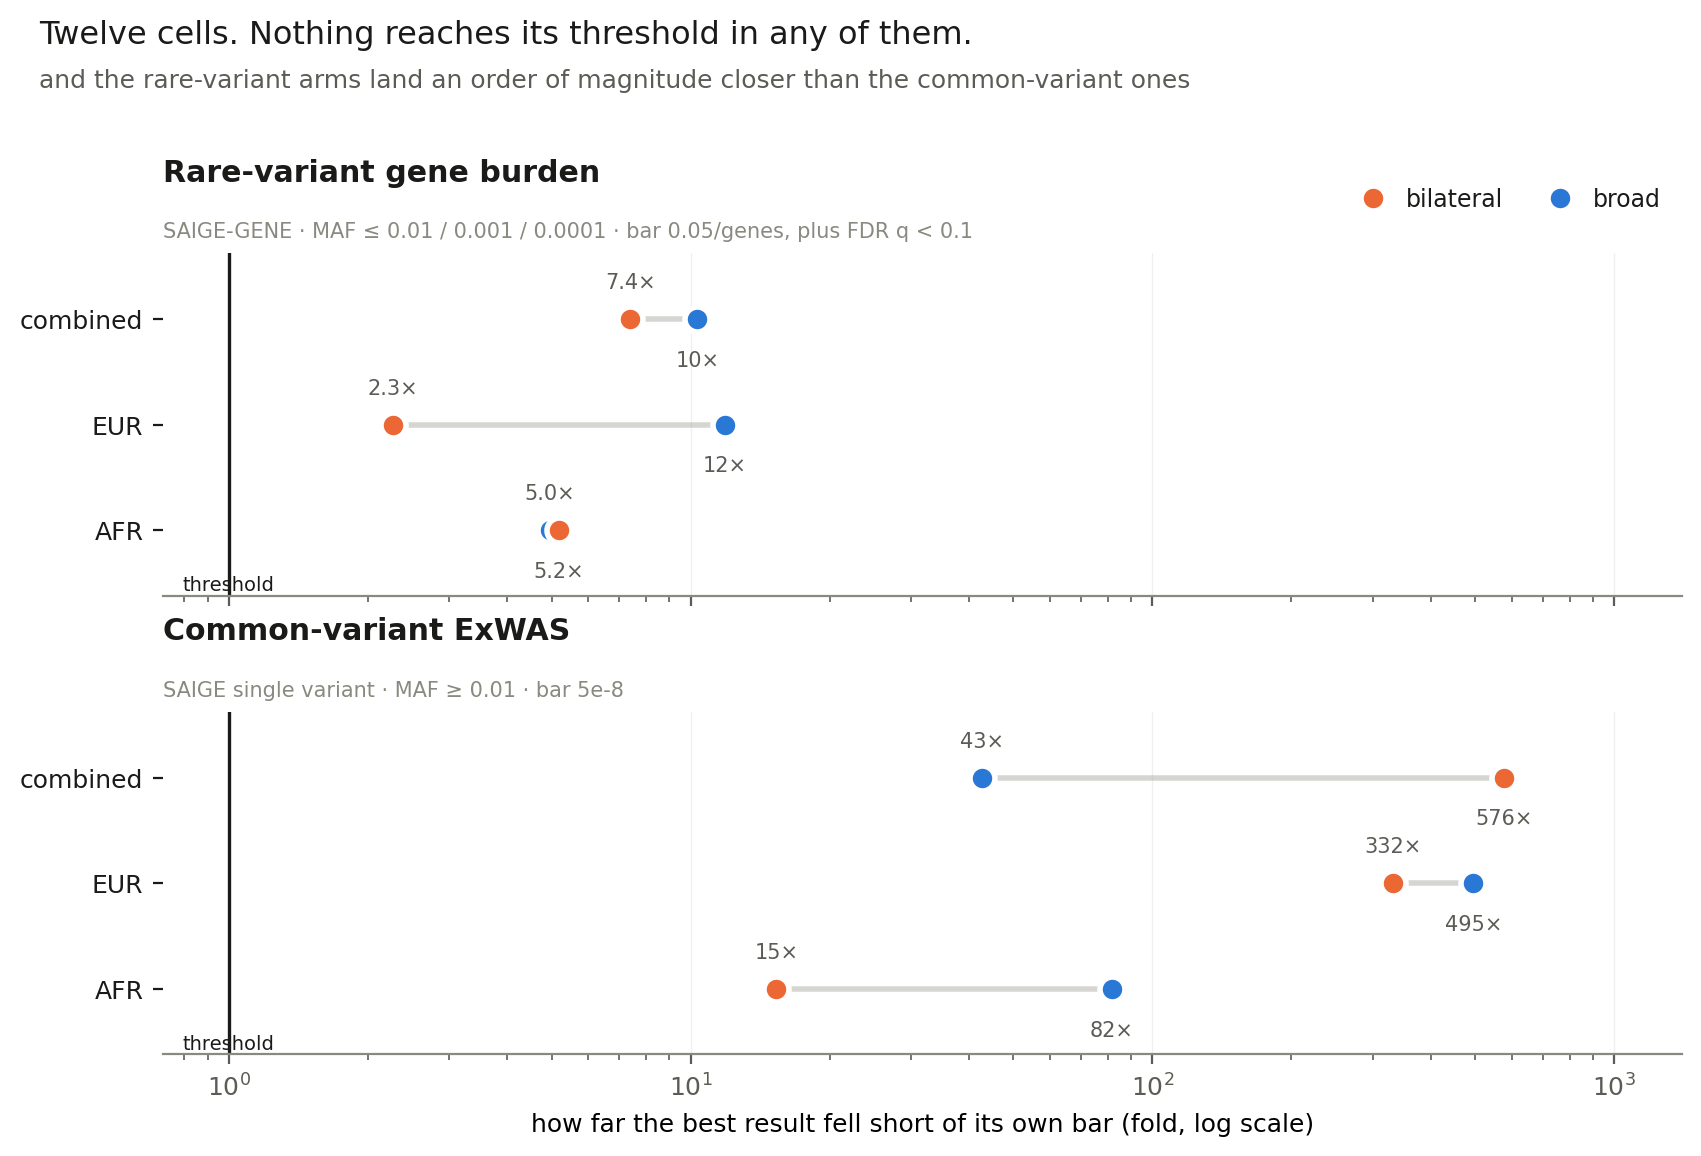
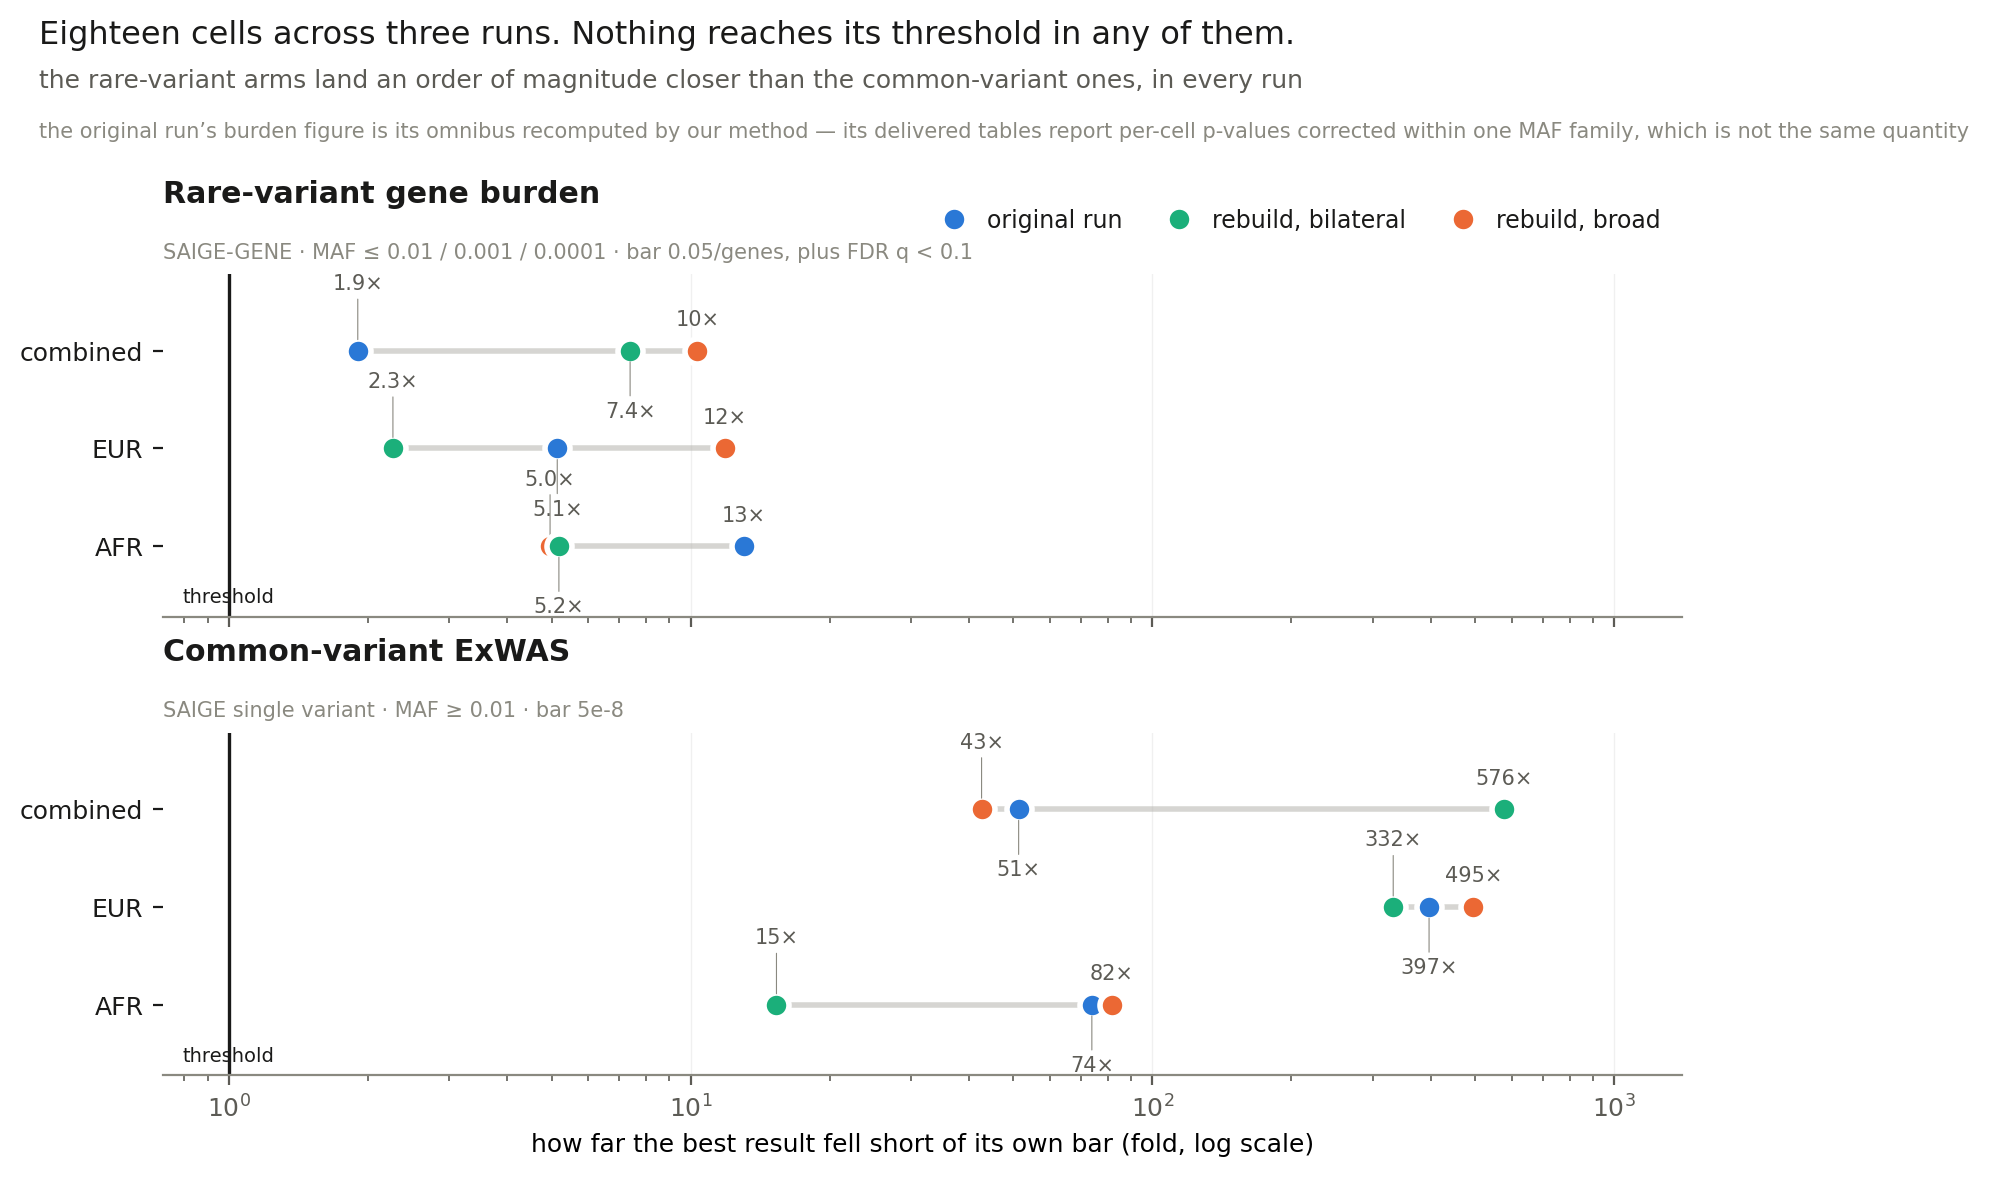
Synthesis figure: add the original run, making it eighteen cells
Three series now -- the original run, the rebuild on its phenotype, and
the rebuild on bilateral. They are not three phenotypes: the first two
share a phenotype and differ in pipeline, while bilateral is a phenotype
the original never ran, so there is no fourth series.

The original's BURDEN figure is its omnibus recomputed by our method,
not its delivered p-value. Its tables report per-cell p corrected within
one MAF family (0.05/53,583 for combined, verified from its own
Pvalue_Bonferroni column) across 160,672 cell tests. Putting that beside
our omnibus would compare minima over different test counts. Its ExWAS
figure needs no adjustment -- single-variant p against 5e-8 is the same
quantity everywhere.

Worth stating because the figure invites a ranking it does not support:
the original is the closest of the three in combined burden (1.9x) and
the furthest in AFR (13x). Its gene set is larger -- 19,042 including
651 antisense, 88 LINC and 14 microRNA genes a pLOF mask should not
contain -- which both loosens its bar and gives more chances at a small
p. The comparison shows that no run reaches its threshold, not which
pipeline is better.

Two mistakes of mine in building this. The first edit to the label
offsets silently did nothing: I used .replace() without an assert on
that block, so it failed quietly and I looked at a figure I believed
had been fixed. The second is what it was meant to fix -- with three
[…]

diff --git a/analysis/pmbb_hl/synthesis/scripts/02_figure.py b/analysis/pmbb_hl/synthesis/scripts/02_figure.py
@@ -26,14 +26,25 @@ import numpy as np
 
 HERE = Path(__file__).resolve().parents[1]
 COHORTS = ["combined", "EUR", "AFR"]
-PHENOS = ["broad", "bilateral"]
-BLUE, ORANGE = "#2a78d6", "#eb6834"
+# Three series now. They are not three phenotypes: the original run and our broad arm
+# share a phenotype and differ in pipeline, while our bilateral arm is a different
+# phenotype we introduced. The original never ran bilateral, so there is no fourth.
+SERIES = ["original run", "rebuild, broad", "rebuild, bilateral"]
+BLUE, ORANGE, AQUA = "#2a78d6", "#eb6834", "#1baf7a"
 INK, INK_2, INK_3, SURFACE = "#1a1a19", "#5c5b55", "#8a8980", "#ffffff"
-PCOL = {"broad": BLUE, "bilateral": ORANGE}
+PCOL = {"original run": BLUE, "rebuild, broad": ORANGE,
+        "rebuild, bilateral": AQUA}
 
 
 def main():
-    d = json.loads((HERE / "results/consolidated.json").read_text())["cells"]
+    raw = json.loads((HERE / "results/consolidated.json").read_text())
+    d, elena = raw["cells"], raw["elena"]
+
+    def short(series, arm, cohort):
+        if series == "original run":
+            return elena[cohort][arm]["short_by"]
+        ph = "broad" if series.endswith("broad") else "bilateral"
+        return d[f"{arm}_{ph}_{cohort}"]["short_by"]
     plt.rcParams.update({
         "figure.dpi": 110, "savefig.dpi": 200, "savefig.bbox": "tight",
         "font.size": 9, "axes.spines.top": False, "axes.spines.right": False,
@@ -53,7 +64,7 @@ def main():
 
     for ax, (title, arm, note) in zip(axes, panels):
         for ci, cohort in enumerate(COHORTS[::-1]):
-            vals = [(p, d[f"{arm}_{p}_{cohort}"]["short_by"]) for p in PHENOS]
+            vals = [(s, short(s, arm, cohort)) for s in SERIES]
             ax.plot([min(v for _, v in vals), max(v for _, v in vals)],
                     [ci, ci], color=INK_3, lw=2, alpha=0.35,
                     solid_capstyle="round", zorder=1)
@@ -61,10 +72,17 @@ def main():
                 ax.plot(v, ci, "o", ms=9, color=PCOL[p], markeredgecolor=SURFACE,
                         markeredgewidth=2, zorder=3,
                         label=p if (ci == 2 and arm == "burden") else None)
+                # THREE distinct heights, not two alternating. With three series the
+                # first and third labels shared an offset, and wherever two runs agree
+                # closely -- 397x against 495x, 74x against 82x -- they overlapped
+                # into an unreadable smear.
+                dy = (22, -24, 9)[j]
                 ax.annotate(f"{v:.0f}×" if v >= 10 else f"{v:.1f}×",
-                            (v, ci), textcoords="offset points",
-                            xytext=(0, 11 if j == 0 else -17),
-                            ha="center", fontsize=7.5, color=INK_2)
+                            (v, ci), textcoords="offset points", xytext=(0, dy),
+                            ha="center", fontsize=7.5, color=INK_2,
+                            arrowprops=dict(arrowstyle="-", lw=0.4, color=INK_3,
+                                            shrinkA=0, shrinkB=4)
+                            if abs(dy) > 15 else None)
         ax.axvline(1.0, color=INK, lw=1.2, zorder=2)
         ax.annotate("threshold", xy=(1.0, -0.52), ha="center", va="center",
                     fontsize=7, color=INK)
@@ -72,7 +90,7 @@ def main():
         ax.set_yticklabels(COHORTS[::-1])
         ax.set_xscale("log")
         ax.set_xlim(0.72, 1400)
-        ax.set_ylim(-0.62, 2.62)
+        ax.set_ylim(-0.72, 2.78)
         ax.grid(axis="x", alpha=0.18, lw=0.5)
         ax.set_title(title, loc="left", fontweight="bold", pad=26)
         ax.text(0, 1.035, note, transform=ax.transAxes, fontsize=7.5,
@@ -80,12 +98,17 @@ def main():
 
     axes[-1].set_xlabel("how far the best result fell short of its own bar "
                         "(fold, log scale)")
-    axes[0].legend(loc="lower right", bbox_to_anchor=(1.0, 1.06), ncol=2,
+    axes[0].legend(loc="lower right", bbox_to_anchor=(1.0, 1.06), ncol=3,
                    fontsize=8.5, handletextpad=0.4, columnspacing=1.4)
-    fig.suptitle("Twelve cells. Nothing reaches its threshold in any of them.",
-                 fontsize=11.5, x=0.062, ha="left", y=1.105)
-    fig.text(0.062, 1.040, "and the rare-variant arms land an order of magnitude "
-             "closer than the common-variant ones", fontsize=9, color=INK_2, ha="left")
+    fig.suptitle("Eighteen cells across three runs. Nothing reaches its threshold "
+                 "in any of them.", fontsize=11.5, x=0.062, ha="left", y=1.125)
+    fig.text(0.062, 1.060, "the rare-variant arms land an order of magnitude closer "
+             "than the common-variant ones, in every run",
+             fontsize=9, color=INK_2, ha="left")
+    fig.text(0.062, 1.012, "the original run\u2019s burden figure is its omnibus "
+             "recomputed by our method \u2014 its delivered tables report per-cell "
+             "p-values corrected within one MAF family, which is not the same quantity",
+             fontsize=7.5, color=INK_3, ha="left")
 
     out = HERE / "figures/how_close.png"
     out.parent.mkdir(parents=True, exist_ok=True)

diff --git a/analysis/pmbb_hl/synthesis/scripts/01_collect.py b/analysis/pmbb_hl/synthesis/scripts/01_collect.py
@@ -81,6 +81,43 @@ def main():
                 print(f"  {key:<26}{units:>9,}{minp:>11.2e}{bar:>11.2e}"
                       f"{minp/bar:>9.1f}x{hits:>6}")
 
+    # --- the original run, for comparison. Broad phenotype only: it never ran
+    # bilateral, so that column is new work rather than replication.
+    #
+    # Her burden omnibus is NOT her delivered p-value. Her tables report per-CELL
+    # p-values corrected within one MAF family (0.05/53,583 for combined, verified
+    # from her Pvalue_Bonferroni column) across the 160,672 cell tests she ran. Placing
+    # that beside our omnibus would compare a minimum over nine times more tests. So
+    # the figure uses her omnibus recomputed with the same ACAT over the same nine
+    # cells, from the first pass's three-way comparison, where all three are one
+    # quantity judged by one rule.
+    three_way = json.loads((ROOT.parent / "gene_burden_pmbb_bilateral/phase_5/results"
+                            / "09_three_way.json").read_text())
+    import csv
+    out["elena"] = {}
+    for c in COHORTS:
+        k = three_way["cohorts"][c]["arms"]["Elena"]
+        ps = []
+        f = (ROOT.parent / "elena/HL_only_ExWAS"
+             / f"HL_ExWAS_FullyAnnotated_AllVariants_{c}.csv")
+        with f.open() as fh:
+            for row in csv.DictReader(fh):
+                try:
+                    v = float(row["p.value"])
+                except (TypeError, ValueError):
+                    continue
+                if 0 < v <= 1:
+                    ps.append(v)
+        out["elena"][c] = {
+            "burden": {"units": k["genes"], "min_p": k["min_omnibus_p"],
+                       "bar": k["bar"], "short_by": k["min_omnibus_p"] / k["bar"]},
+            "exwas": {"units": len(ps), "min_p": min(ps), "bar": 5e-8,
+                      "short_by": min(ps) / 5e-8},
+        }
+        e = out["elena"][c]
+        print(f"  elena_{c:<20}burden {e['burden']['short_by']:>6.1f}x   "
+              f"exwas {e['exwas']['short_by']:>7.0f}x")
+
     out["matched_enrichment"] = matched["arms"]
     (OUT / "consolidated.json").write_text(json.dumps(out, indent=2) + "\n")
     print(f"\n  written: results/consolidated.json")

diff --git a/analysis/pmbb_hl/synthesis/CONSOLIDATED.md b/analysis/pmbb_hl/synthesis/CONSOLIDATED.md
@@ -10,12 +10,38 @@ Every number here is read from the file the phase that produced it wrote;
 
 ![How close](figures/how_close.png)
 
-**Twelve cells — two methods × two phenotypes × three cohorts. Nothing reaches its
-threshold in any of them.** The closest is 2.3× short; the furthest is 576×.
+**Eighteen cells across three runs — two methods × three runs × three cohorts. Nothing
+reaches its threshold in any of them.** The closest is 1.9× short; the furthest is 576×.
 
 The second thing the figure says is the useful one: **the rare-variant arms land an
-order of magnitude closer than the common-variant ones** — burden 2.3–12×, ExWAS
-15–576×.
+order of magnitude closer than the common-variant ones, in every run** — burden 1.9–13×,
+ExWAS 15–576×.
+
+| run | phenotype | what it is |
+|---|---|---|
+| **original run** | broad | the PMBB v4 analysis delivered in October |
+| **rebuild, broad** | broad | the same phenotype, this pipeline |
+| **rebuild, bilateral** | bilateral sensorineural | a phenotype the original never ran |
+
+> **The original run's burden figure is its omnibus recomputed by our method.** Its
+> delivered tables report **per-cell** p-values corrected within one MAF family —
+> `0.05/53,583` for combined, verified from its own `Pvalue_Bonferroni` column — across
+> the 160,672 cell tests it ran. Placing that beside our omnibus would compare a minimum
+> over nine times more tests. The figure instead uses the same ACAT over the same nine
+> cells for all three, so one quantity is judged by one rule.
+>
+> Its ExWAS figure needs no such adjustment: single-variant p against 5e-8 is the same
+> quantity in all three runs.
+
+### The original run is the closest of the three in combined, and the furthest in AFR
+
+Burden, combined: **1.9×** against our 10× and 7.4×. Burden, AFR: **13×** against our
+5.0× and 5.2×.
+
+Neither is a verdict on pipeline quality. The gene sets differ — its 19,042 genes
+include 651 antisense, 88 LINC and 14 microRNA genes that a `pLOF` mask should not
+contain, and more genes means both a looser bar and more chances at a small p. The
+comparison is here to show that **no run reaches its threshold**, not to rank them.
 
 ---
 
